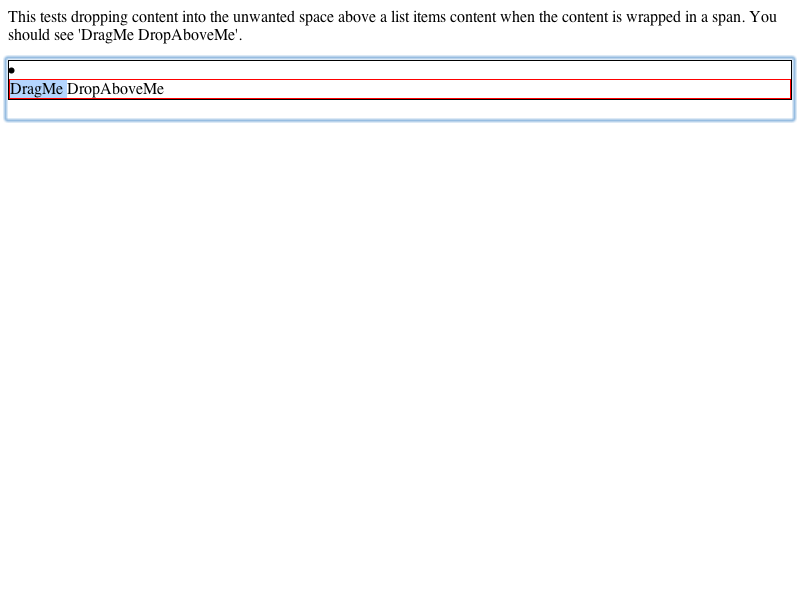
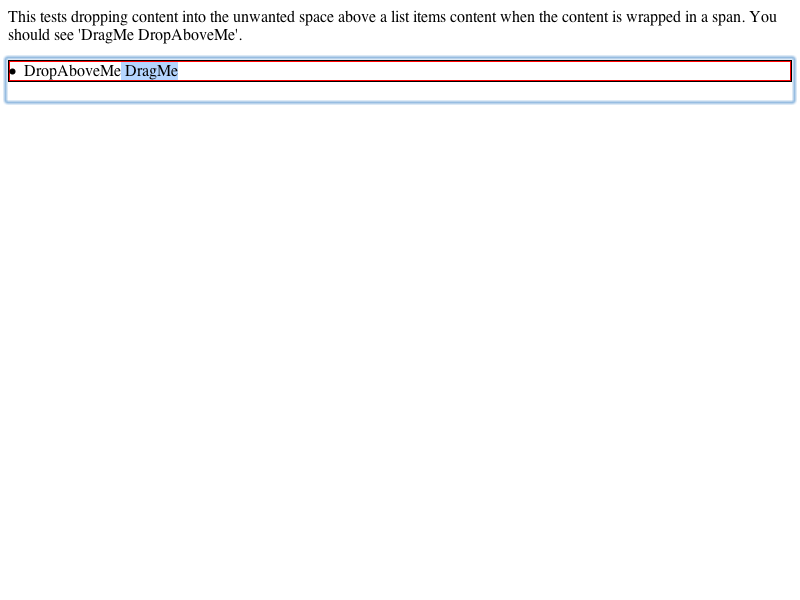
2007-07-13  Mitz Pettel  <mitz@webkit.org>
Reviewed by Dave Hyatt.

        - fix http://bugs.webkit.org/show_bug.cgi?id=14395
          When a <p> is inside <li> two <BR>s are rendered

        Test: fast/lists/marker-before-empty-inline.html

        * rendering/RenderBlock.h:
        * rendering/RenderListItem.cpp:
        (WebCore::getParentOfFirstLineBox): Changed to skip empty inline flows that
        do not actually generate any line boxes. Limited the nested lists quirk to
        the case where the list is a child of the list item, to match Firefox.
        * rendering/bidi.cpp:
        (WebCore::requiresLineBox): Added. Factored out of skipWhitespace.
        (WebCore::RenderBlock::generatesLineBoxesForInlineChild): Added. Checkes
        whether the child or any of its siblings following it will generate a line
        box in the flow.
        (WebCore::RenderBlock::skipWhitespace):

2007-07-13  Mitz Pettel  <mitz@webkit.org>

        Reviewed by Dave Hyatt.

        - test and updated results for http://bugs.webkit.org/show_bug.cgi?id=14395
          When a <p> is inside <li> two <BR>s are rendered

        * editing/pasteboard/4861080-expected.checksum:
        * editing/pasteboard/4861080-expected.png:
        * editing/pasteboard/4861080-expected.txt:
        * fast/lists/marker-before-empty-inline-expected.checksum: Added.
        * fast/lists/marker-before-empty-inline-expected.png: Added.
        * fast/lists/marker-before-empty-inline-expected.txt: Added.
[…]

Changed region(s): [[0.0, 0.09, 1.0, 0.21]]

diff --git a/fast/lists/marker-before-empty-inline.html b/fast/lists/marker-before-empty-inline.html
@@ -1,0 +1,34 @@
+<html>
+<head>
+    <style>
+        .generate:before {content: 'before';}
+    </style>
+</head>
+<body>
+    <p>
+        Test for <i><a href="http://bugs.webkit.org/show_bug.cgi?id=14395">http://bugs.webkit.org/show_bug.cgi?id=14395</a>
+        When a &lt;p> is inside &lt;li> two &lt;BR>s are rendered</i>.
+    </p>
+    <p>
+        In all of the following, the bullets should be lined up with the first line of text.
+    </p>
+    
+    <ul><li> <span> <div>item</div></span></li></ul>
+    
+    <ul><li> <span> </span> <div>item</div></li></ul>
+    
+    <ul><li> <span> <i> <div>item</div> </i> </span> </li></ul>
+    
+    <ul><li> <span class="generate"> <div>item</div></span></li></ul>
+    
+    <ul><li><span><ul><li>item</li></ul></span><br></li></ul>
+    
+    <ul><li><div><ul><li>item</li></ul></div><br></li></ul>
+    
+    <p>
+        In this case, the solid bullet should be one line above the hollow bullet and the text.
+    </p>
+    
+    <ul><li><ul><li>item</li></ul><br></li></ul>
+</body>
+</html>
